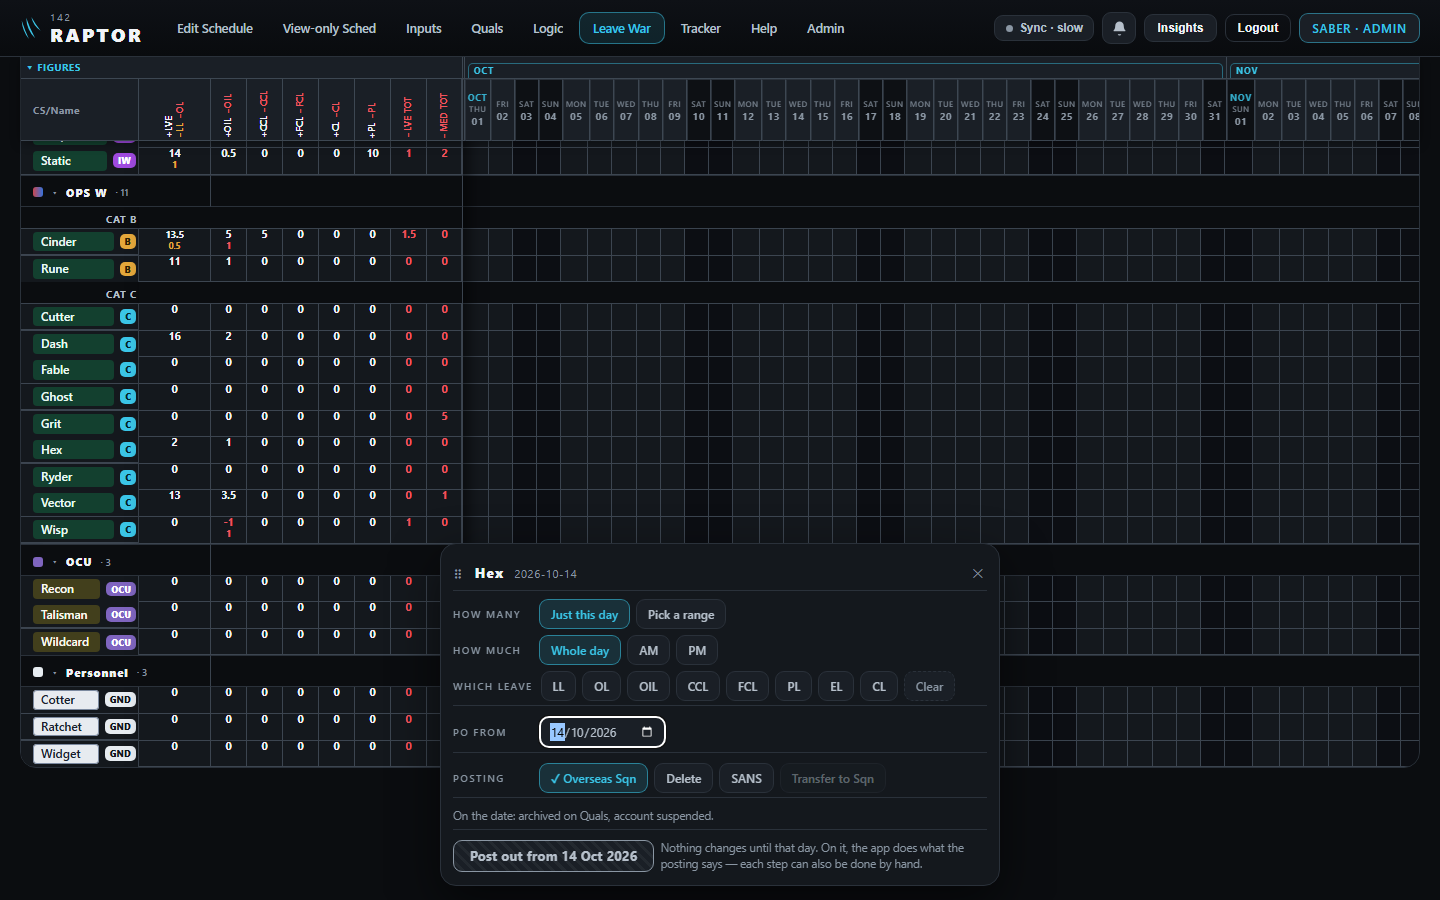
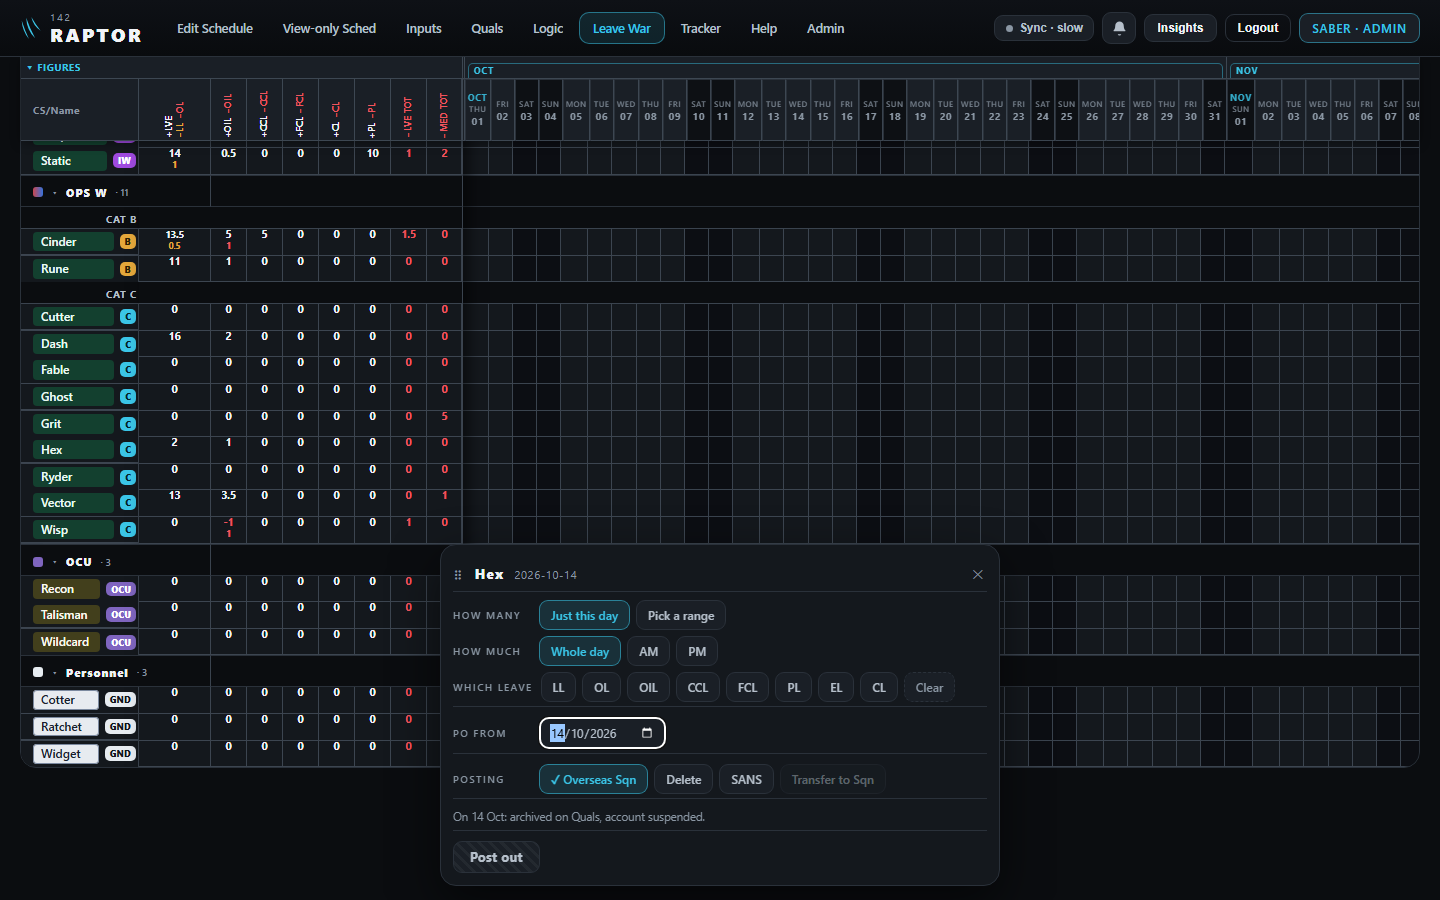
ruling D300 -- the post-out sheet says each thing once (the date in its box, one line for what happens, the button just 'Post out') and fewer words overall; the repo's mock-up copy redrawn (not republished); the word trim handed to the next chat (his 'fix this in the next chat'). HANDOFF block updat

diff --git a/raptor-port/docs/mock/post-out.html b/raptor-port/docs/mock/post-out.html
@@ -68,10 +68,10 @@
   </section>
 
   <section>
-    <div class="head"><h2>1 · On the Leave War, you say what the posting is</h2><span class="rul">D229 · D294 · D298</span></div>
+    <div class="head"><h2>1 · On the Leave War, you say what the posting is</h2><span class="rul">D229 · D294 · D298 · D300</span></div>
     <p>Tap a day on his row, then <b>PO</b>. After the date, the one "Archive on PO date" switch becomes four short
-      choices — <b>Overseas Sqn · Delete · SANS · Transfer to Sqn</b> (the last one later) — with one line saying what
-      the chosen one does on the date. Nothing happens until that day.</p>
+      choices — <b>Overseas Sqn · Delete · SANS · Transfer to Sqn</b> (the last one later) — one line saying what the
+      chosen one does on that date, and a button that just reads <b>Post out</b>. Each thing is said once (D300).</p>
     <div class="pics">
       <figure class="wide"><img src="img/post-out/desktop-1-postout-sheet.png" alt="The Leave War post-out sheet asking what the posting is, with four choices"><figcaption><span class="tag drawn">drawn</span>the four choices, in your words (D294, D298) · desktop</figcaption></figure>
       <figure class="phone"><img src="img/post-out/phone-1-postout-sheet.png" alt="The same post-out sheet on a phone"><figcaption><span class="tag drawn">drawn</span>on a phone</figcaption></figure>

diff --git a/.claude/rules/decisions/how-we-work.md b/.claude/rules/decisions/how-we-work.md
@@ -9,6 +9,7 @@ never pay or money).
 
 | # | Date | His ruling, in his words where short enough | What it means | Where it lives now |
 |---|---|---|---|---|
+| D300 | 27 Sep 26 | *"Actually the post out from 14 oct 2026. Why is it repeated info"* · then *"Theres too much words too"* · *"fix this in the next chat"* — with a picture of the approved mock-up's post-out sheet (the date in "PO from", again on the button "Post out from 14 Oct 2026", and two lines of explanation) | **THE POST-OUT SHEET SAYS EACH THING ONCE: THE DATE IN ITS BOX, ONE LINE FOR WHAT HAPPENS ON IT ("On 14 Oct: archived on Quals, account suspended."), AND A BUTTON THAT READS JUST "POST OUT".** The "Nothing changes until that day…" line goes. **Narrows D299's approved mock-up** (§1) and changes today's button, which has read "Post out from <date>" since 19 Aug 26. **And fewer words overall** (his "too much words") — on the sheet and across the mock-up page: say each thing once, as short as it reads. **The next chat does it** (his word) and shows him before the build. **The agent's reading, stated to him so he can correct it:** the same for the post-IN button ("Post in from <date>" → "Post in"), whose date also sits in its own box | `raptor-port/docs/mock/post-out.html` §1; `OUTSTANDING.md` `[POST-OUT-OUTCOMES]`; on build: `raptor-port/src/leavewar/ui/BidPicker.tsx` (the post-out and post-in buttons) |
 | D299 | 27 Sep 26 | **"yes approve"** — to *"Say 'yes' to this list (recommended) … Approve the mock-up when it looks right"*, the list being what STAYS after a delete and what GOES | **(1) A DELETE TAKES HIM OUT OF TODAY AND THE FUTURE; THE PAST KEEPS ITS RECORD OF HIM.** Stays, shown only where the past is shown: his puck on every day he already flew (D297); his past Leave War record — leave taken, OIL earned — in the months he was here (as a posted-out man's today, 19 Aug 26); his past inputs (leave, medical, courses) with their documents; his signatures on published days (CUR CK, SKED CK, PLANNED BY, APPROVED BY); the change history; his Tracker record from courses he finished. Goes: his account; his Quals row from every list (the Archived one included) and every picker; his callsign (free); every day still to come; his future leave, bids and inputs; his OIL balance; his Leave War row after he left; his place on any course still running. How long medical records are kept is the organisation's rule, applied at the database step. **(2) THE MOCK-UP `raptor-port/docs/mock/post-out.html` IS APPROVED — THE DESIGN OF RECORD FOR `[POST-OUT-OUTCOMES]`** (D229, D280–D298), and for the guest mark (D296) when `[XFER]` is built | `raptor-port/docs/mock/post-out.html` (§5 carries the list; its subtitle the approval); `OUTSTANDING.md` `[POST-OUT-OUTCOMES]` |
 | D298 | 27 Sep 26 | *"So technically hes not truly deleted. maybe can change to delete?"* — after D297 kept a deleted man's puck on the days he already flew | **THE POST-OUT CHIP READS "DELETE", NOT "FULLY DELETE".** Once the past keeps its record of him (D290, D297), "fully" overstates it: a delete takes him out of today and the future — every list, picker, sign-in, day still to come — while the past keeps what happened. **Narrows D294** (its four chips now "Overseas Sqn", "Delete", "SANS", "Transfer to Sqn"); D285's "Delete account" button stands. **The agent's reading, stated to him so he can correct it:** the same word everywhere the act is named (the post-out chip, the account editor's second tap, the confirm line) | `raptor-port/docs/mock/post-out.html` §1; `OUTSTANDING.md` `[POST-OUT-OUTCOMES]` |
 | D297 | 27 Sep 26 | **"5. recommended yes"** — to *"Can a deleted man keep his puck on schedules already published? … Every day he already flew keeps his puck, published or not; days still to come lose him; he's gone from everything else; if his callsign is given to someone new, old days still show the old man"* (after his own *"if this person is deleted. Can published schedules with the user still retain the puck?"*) | **A MAN DELETED FOR LEAVING FLYING FOR GOOD KEEPS HIS PUCK ON EVERY DAY HE ALREADY FLEW — PUBLISHED OR NOT — AND IS TAKEN OFF EVERY DAY STILL TO COME** (on a published day that reads pending, as any change does). He is gone from every list, picker, the Leave War's current views and sign-in; his callsign is free, and if a new man takes it the old days still show the old one (the app knows each by his id). **Narrows D287**, whose "every day he was on shows his seat empty, published days included" gives way — the published record stays true (D45's principle, which D287 had set aside for this act, holds again). Made possible by D290 (his record kept underneath as a hidden "deleted" mark) | `OUTSTANDING.md` `[POST-OUT-OUTCOMES]`; D287's row (narrowed); `raptor-port/docs/data-model.md` §3 Person; `raptor-port/docs/engine-rules.md` (the who→personId correction note); `raptor-port/docs/mock/post-out.html` §5 |

diff --git a/DECISIONS.md b/DECISIONS.md
@@ -33,7 +33,7 @@ clashes, the later branch renumbers ITS OWN rows — never the ones already on `
 may SKIP (a parallel branch can hold a range); a number is never reused and never lost. The next
 number is one above the highest of `main`'s own run below D150 (the map shows it), skipping any range a
 parallel chat holds (D90–D119 is the amendment chat's; D150–D156 are used). **Since 24 Sep 26 main's run below D150
-is full (D135–D149), so it continues from D157**, skipping D170+ (the demo chat's range, D154). **D200–D209 is the late-published chat's follow-on range** (`claude/rulings-supersede-sweep`, 26 Sep 26). **D210–D229 is the accounts chat's** (`claude/accounts`, 26 Sep 26; its follow-on `claude/accounts-new-person` also holds **D280–D299**, taken 26–27 Sep 26 above the parallel chats' D260–D279), and **D230–D239 is offered to a parallel Tracker-palette chat** started beside it (**D240–D249** to a `[BG-CWD-GUARD]` chat, **D250–D259** to a `[BACKLOG-TIDY]` chat, if he starts them). **D190–D199 is the
+is full (D135–D149), so it continues from D157**, skipping D170+ (the demo chat's range, D154). **D200–D209 is the late-published chat's follow-on range** (`claude/rulings-supersede-sweep`, 26 Sep 26). **D210–D229 is the accounts chat's** (`claude/accounts`, 26 Sep 26; its follow-on `claude/accounts-new-person` also holds **D280–D309**, taken 26–27 Sep 26 above the parallel chats' D260–D279), and **D230–D239 is offered to a parallel Tracker-palette chat** started beside it (**D240–D249** to a `[BG-CWD-GUARD]` chat, **D250–D259** to a `[BACKLOG-TIDY]` chat, if he starts them). **D190–D199 is the
 Tracker smoke chat's range** (`claude/trk-smoke-add-race-bug-007eed`, D190, 25 Sep 26); **D176–D189 is the D175 chat's**
 (`claude/request-one-row`, his instruction of 25 Sep 26). **D180–D189 pass to the overnight chat** (`claude/leave-late-published`, 25 Sep 26 — the D175 chat merged having used D176–D179).
 
@@ -48,7 +48,7 @@ ruling, or an explicit no. **Not** ordinary task instructions ("run the tests", 
 
 | Area | File | Loads by itself | Rulings, newest first |
 |---|---|---|---|
-| How we work | `.claude/rules/decisions/how-we-work.md` | in EVERY session | D299, D298, D297, D296, D295, D294, D293, D292, D291, D290, D289, D288, D287, D286, D285, D284, D283, D282, D281, D280, D229, D228, D227, D226, D225, D224, D223, D222, D221, D220, D219, D217, D216, D215, D214, D213, D211, D210, D204, D203, D201, D200, D182, D180, D173, D166, D165, D106, D90, D162, D148, D147, D145, D144, D143, D141, D140, D138, D137, D136, D135, D151, D89, D87, D86, D85, D84, D78, D73, D72, D70, D69, D68, D67, D63, D62, D60, D59, D58, D57, D56, D54, D53, D30, D29, D23, D22, D17, D16, D14, D13, D12, D11, D10, D9, D8, D7, D6, D5, D4 |
+| How we work | `.claude/rules/decisions/how-we-work.md` | in EVERY session | D300, D299, D298, D297, D296, D295, D294, D293, D292, D291, D290, D289, D288, D287, D286, D285, D284, D283, D282, D281, D280, D229, D228, D227, D226, D225, D224, D223, D222, D221, D220, D219, D217, D216, D215, D214, D213, D211, D210, D204, D203, D201, D200, D182, D180, D173, D166, D165, D106, D90, D162, D148, D147, D145, D144, D143, D141, D140, D138, D137, D136, D135, D151, D89, D87, D86, D85, D84, D78, D73, D72, D70, D69, D68, D67, D63, D62, D60, D59, D58, D57, D56, D54, D53, D30, D29, D23, D22, D17, D16, D14, D13, D12, D11, D10, D9, D8, D7, D6, D5, D4 |
 | Tracker | `.claude/rules/decisions/tracker.md` | when a Tracker file is read (its code, docs, scripts, evidence) | D191, D190, D158, D157, D134, D132, D131, D130, D129, D128, D127, D126, D124, D123, D122, D121, D120, D64 |
 | Leave War | `.claude/rules/decisions/leave-war.md` | when a Leave War file is read (its code, docs, e2e, evidence) | D160, D159 |
 | Scheduler & amendments | `.claude/rules/decisions/scheduler.md` | when a scheduler, board, engine, amendment or storage file is read | D218, D212, D189, D188, D187, D186, D185, D184, D183, D179, D178, D177, D176, D175, D174, D172, D171, D170, D169, D168, D167, D119, D118, D117, D116, D114, D113, D111, D110, D109, D108, D107, D105, D103, D102, D101, D100, D99, D98, D97, D96, D95, D94, D93, D92, D91, D164, D161, D149, D77, D66, D65, D51, D50, D47, D45, D44, D41, D40, D39, D38, D37, D36, D33, D27 |

diff --git a/HANDOFF.md b/HANDOFF.md
@@ -32,7 +32,10 @@ the later merge keeps both (D78).
   **Mock-up APPROVED (D299):** `raptor-port/docs/mock/post-out.html` (Artifact
   https://claude.ai/artifact/BjZgFjGxRxohuoV1vgEFjp), made by `raptor-port/scripts/handpass/am/mk-post-out.mjs`.
   Build: `[POST-OUT-OUTCOMES]` (next, D291); transfers and guests: `[XFER]` (with the database).
-- **Unfinished:** none — PR #443 awaits his look and "merge live" (`main` still `e27e15fe`, already in the branch).
+- **Unfinished:** the mock-up's word trim (D300, his "too much words" / "fix this in the next chat"): the sheet's date is
+  already said once and its button reads "Post out" in the repo copy (pictures redrawn, NOT republished — the Artifact
+  still shows Version 5); cut the words on the sheet and across the page, republish to the same Artifact link, show him.
+  PR #443 awaits his look and "merge live" (`main` still `e27e15fe`, already in the branch).
 - **Branch:** `claude/accounts-new-person`, PR #443. If it has MERGED, reset before new work:
   `git fetch origin main && git checkout -B <new-branch> origin/main`.
 - **Gates:** as above; `probes:adapted` · `perf` NOT RUN (the dense surfaces they measure are untouched).
@@ -42,7 +45,7 @@ the later merge keeps both (D78).
   taken after the step (skill-observation #280); a break test left green may be aimed at the wrong tests (#282) and runs
   in a scratch worktree (#281, `np-breaks.mjs`'s header); Bash heredocs mangle backslashes — use the Edit tool.
 - **Open questions for him:** none.
-- **Pick up here:** after his "merge live" of PR #443, archive `[ACCOUNTS-NEW-PERSON]`
+- **Pick up here:** first the mock-up word trim (Unfinished above); after his "merge live" of PR #443, archive `[ACCOUNTS-NEW-PERSON]`
   (`node raptor-port/scripts/backlog-archive.mjs ACCOUNTS-NEW-PERSON --homes raptor-port/docs/handpass/2026-09-26-accounts-new-person.md`),
   then plan `[POST-OUT-OUTCOMES]` from the approved mock-up and D229, D280–D299 (Opus 5.5 high; Fable + Astra red-team;
   FULL check).

diff --git a/OUTSTANDING.md b/OUTSTANDING.md
@@ -1201,7 +1201,7 @@ everything that is his goes too (inputs, Leave War leave and OIL — nothing lef
 takes him off (pending on a published day); asks twice, cannot be undone. **Underneath — D290 "hidden mark":** his
 row is kept, marked deleted and invisible everywhere (the data model's tombstone), never erased. **And names — D286:** an archived man's callsign may go to a new person (today it is refused); restoring him while it
 is in use needs one of the two renamed first (Restore says so, renames nobody). Update `roster-add.ts` (its PID-01
-header and test), `ID_BY_CS` (points at the roster's man). **Mock-up APPROVED 27 Sep 26 (D299) — the design of record:** `raptor-port/docs/mock/post-out.html` (+ its Artifact; §5 holds what stays after a delete); his first look: D294 (short chips "Overseas Sqn" · "Delete" (D298) · "SANS" · "Transfer to Sqn"), D295 (rename an archived man directly), D296 (guest mark A). **With it — D292:** the admin's member view back (tap the badge: "SABER · ADMIN" ↔ "MEMBER"; perms read the role in
+header and test), `ID_BY_CS` (points at the roster's man). **Mock-up APPROVED 27 Sep 26 (D299) — the design of record:** `raptor-port/docs/mock/post-out.html` (+ its Artifact; §5 holds what stays after a delete; D300 — the date once, the button "Post out", FEWER WORDS: the next chat trims the page and sheet, republishes, shows him); his first look: D294 (short chips "Overseas Sqn" · "Delete" (D298) · "SANS" · "Transfer to Sqn"), D295 (rename an archived man directly), D296 (guest mark A). **With it — D292:** the admin's member view back (tap the badge: "SABER · ADMIN" ↔ "MEMBER"; perms read the role in
 force). **Place — D291:** straight after `[ACCOUNTS-NEW-PERSON]` merges, before `[DRAFT-PENDING]`.
 ### [LOOK-435] His inputs from the look at PR #435 — the order is D173 (25 Sep 26)
 **Step 1 DONE 25 Sep 26:** D114's FULL check — evidence `raptor-port/docs/handpass/2026-09-25-amendment-batch.md` §9; two
